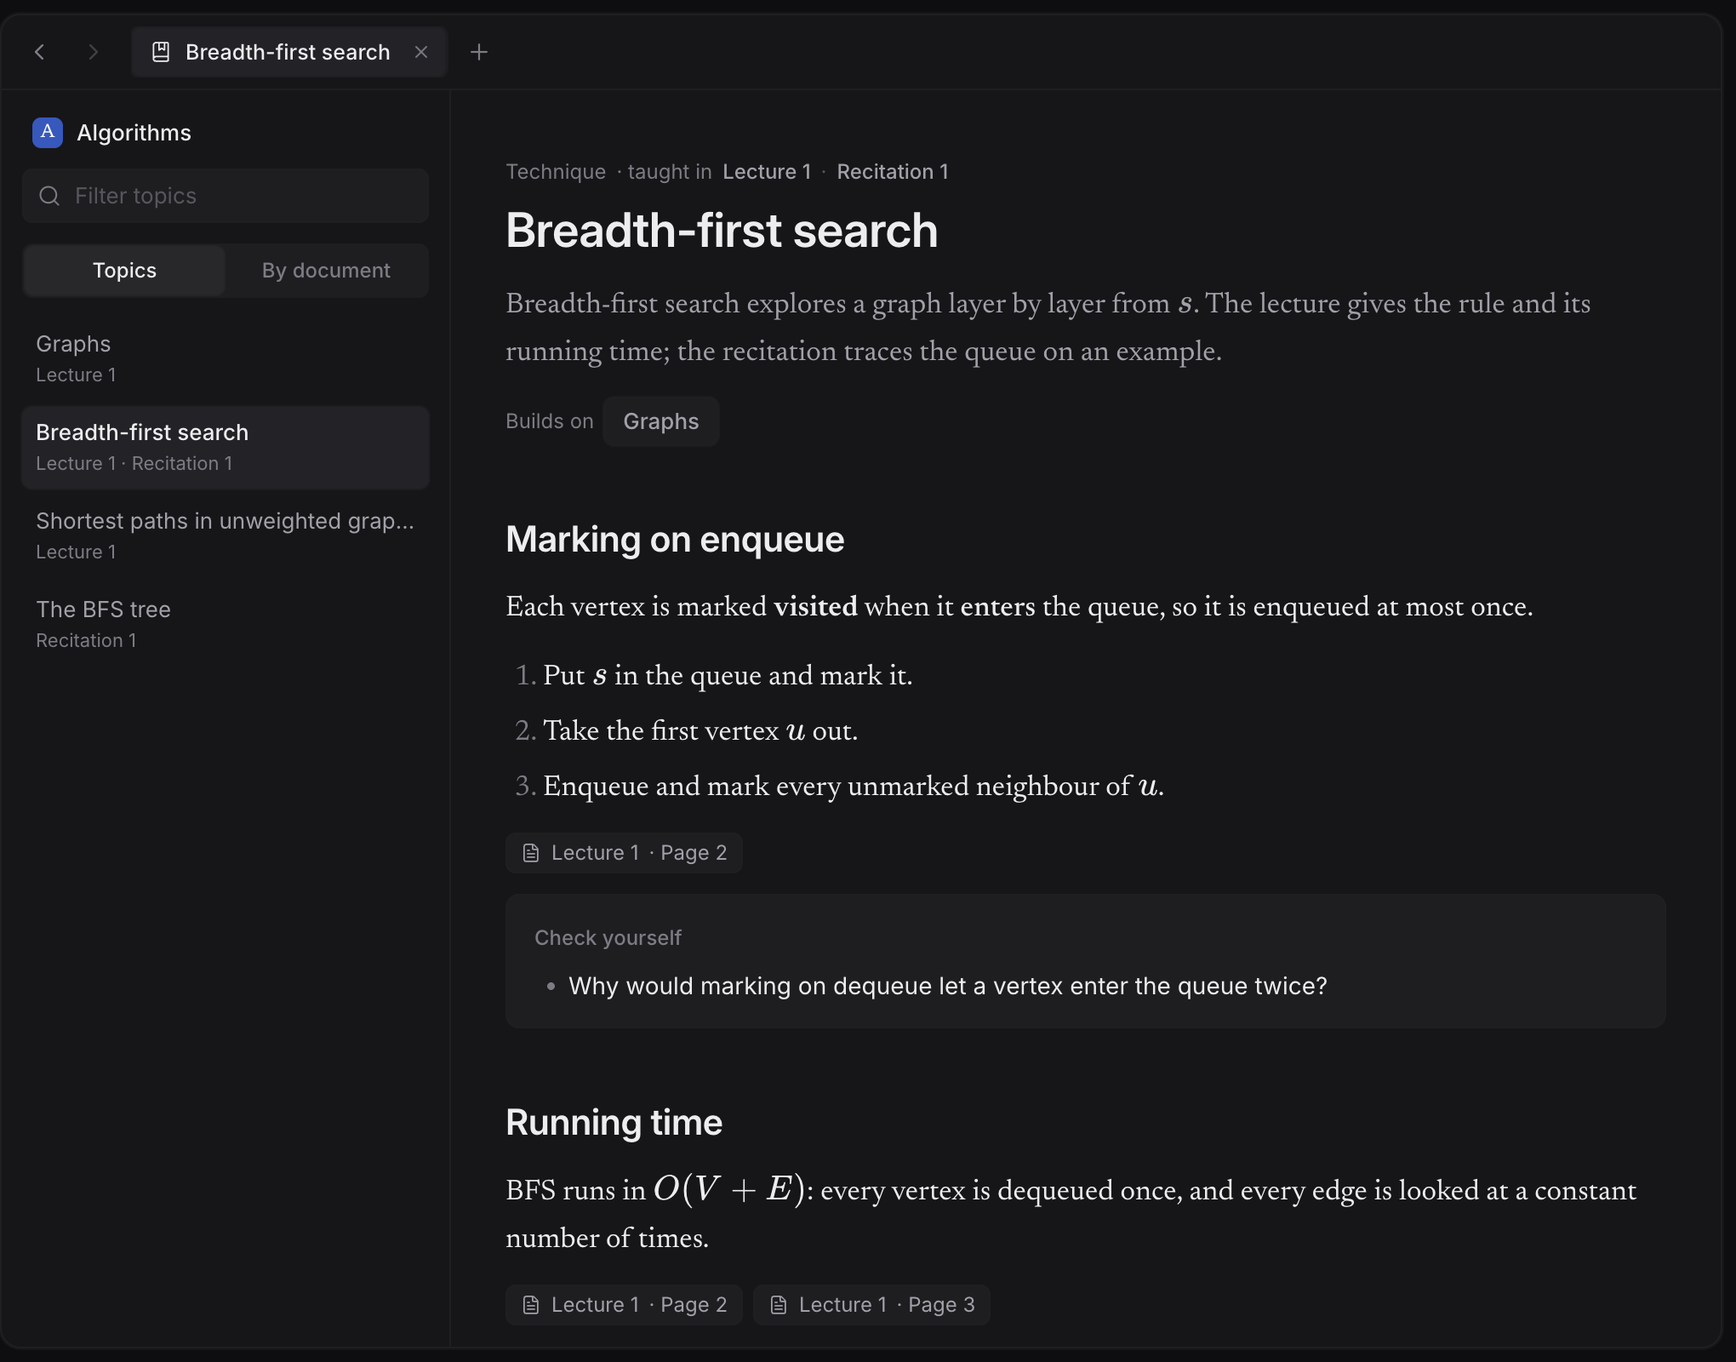
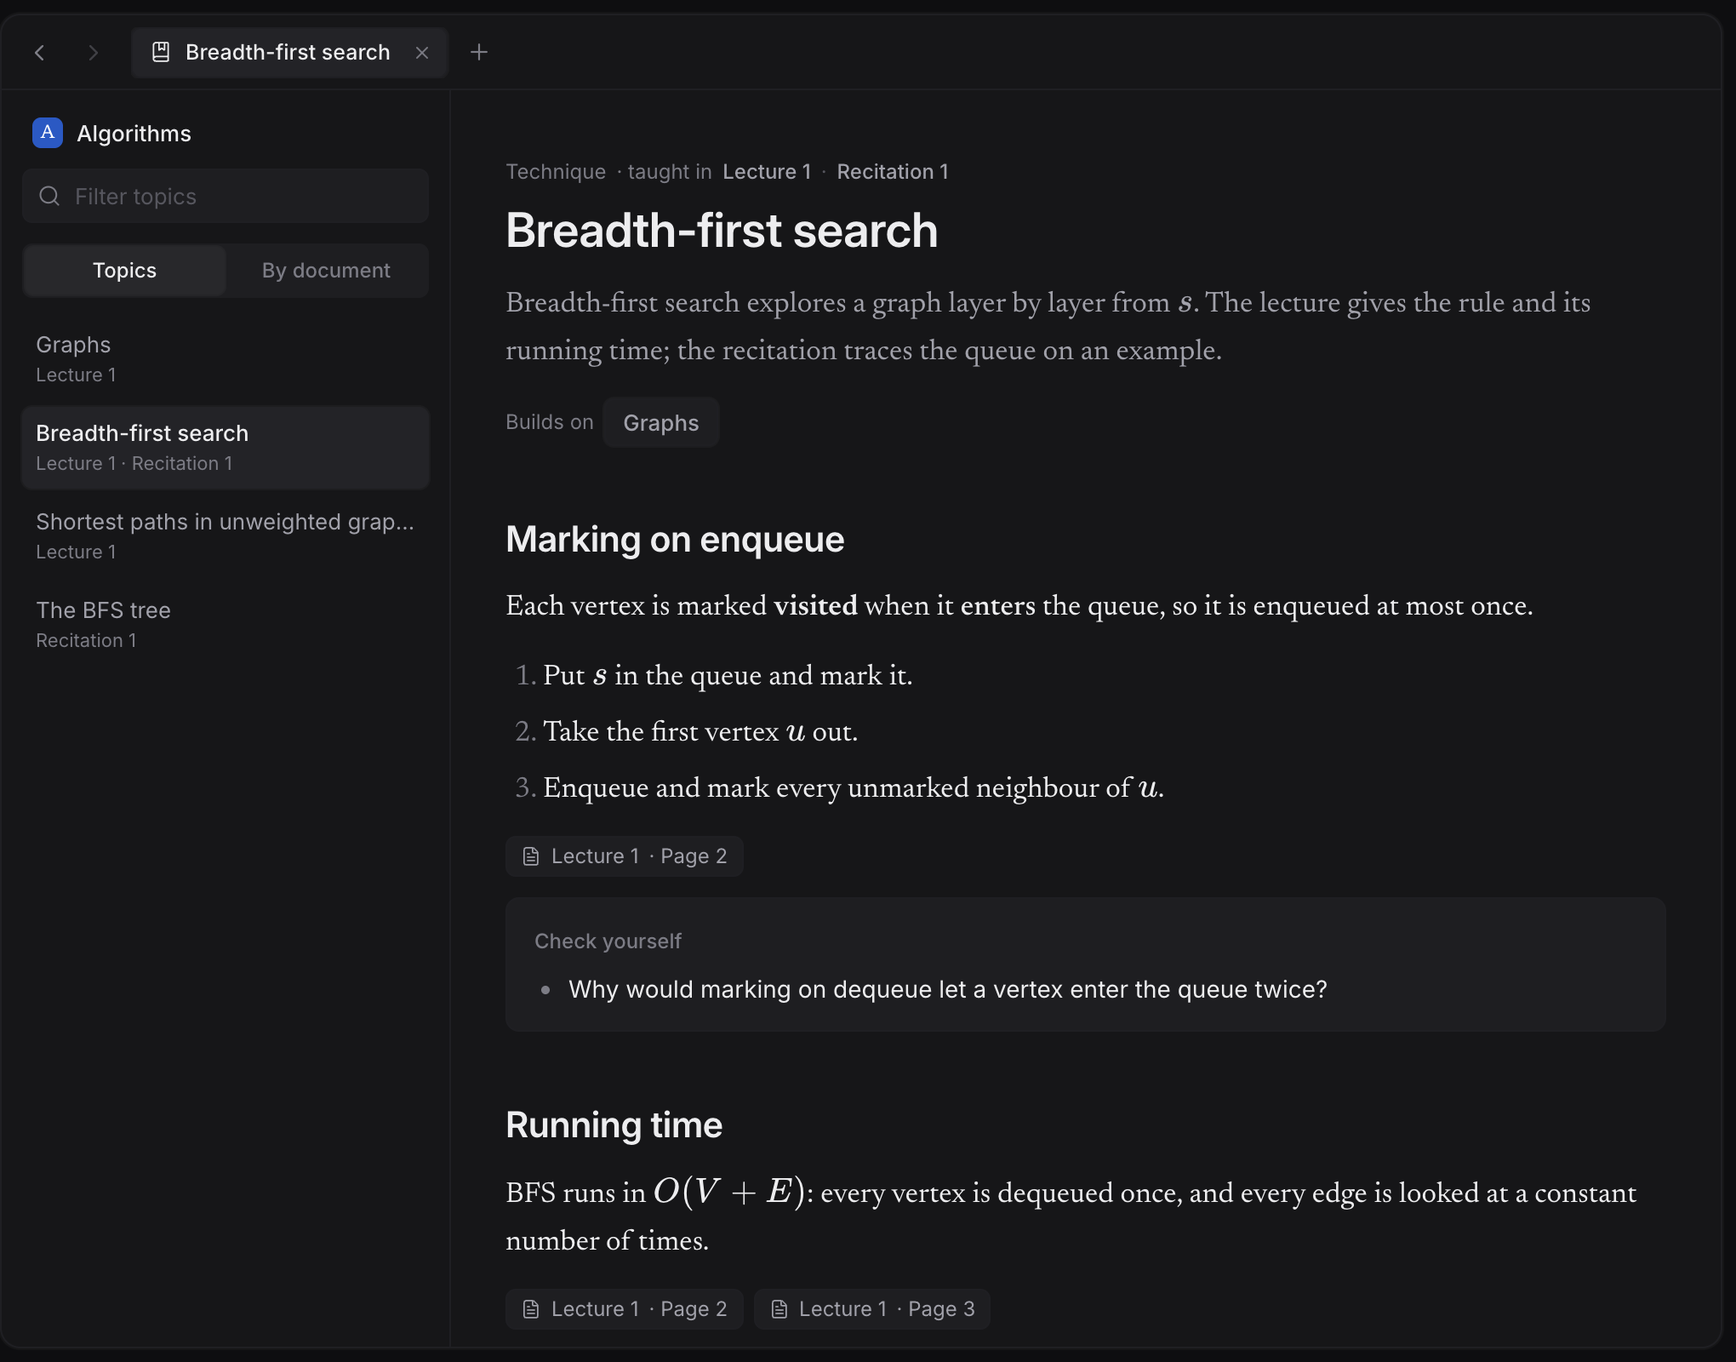
Retake the README pictures on pull requests that change the app (#25)
* Retake the README pictures on pull requests that change the app

`vp run screenshots` takes the pictures into a temporary folder and replaces a
still only when it looks different: more than 50 pixels off by more than 8 in
a colour channel, since Chromium draws the same page a few values apart from
one version to the next. The clip, recorded in real time and never the same
twice, is retaken only when a picture changed, when it is missing, or when
named. The preview window hides its scrollbars, which macOS draws by its own
settings and whether a mouse is connected.

CI's new "macOS: README pictures" job runs it on pull requests from this
repository that change the app, commits the pictures that changed to the
branch, and starts CI on that commit, since a push with the workflow's token
starts no workflow and main requires the CI check.

* Retake the README pictures

docs/images/add-context-dark.png
docs/images/add-context-light.png
docs/images/board-dark.png
docs/images/board-light.png
docs/images/notebook-dark.png
docs/images/notebook-light.png
docs/images/study-notes-dark.png
docs/images/study-notes-light.png
docs/images/tutor-dark.webp
docs/images/tutor-light.webp

* Force twice the scale when taking the README pictures

The page was asked for twice its size, but a screen that isn't Retina draws it
at its own: GitHub's Mac took the pictures at 1020 by 800. Chromium's
force-device-scale-factor switch makes it 2040 by 1600 on any Mac. The
[…]

diff --git a/scripts/screenshots.ts b/scripts/screenshots.ts
@@ -1,18 +1,28 @@
 // Pictures of Folio for the README, from the browser preview's synthetic courses: `vp run
 // screenshots` serves the interface with `vp dev`, opens it in a hidden Electron window, sets up
-// each scene, and writes docs/images/<scene>-light.png and <scene>-dark.png at twice their size,
-// then the clip of the tutor answering, docs/images/tutor-light.webp and tutor-dark.webp.
-// The clock is fixed, so relative dates and the greeting come out the same on every run. Nothing
-// opens on screen and nothing talks to a model. `vp run screenshots board clip` takes only
-// those.
+// each scene and takes docs/images/<scene>-light.png and <scene>-dark.png at twice their size. A
+// picture is replaced only when it looks different, so retaking them changes nothing until the
+// interface does. The clip of the tutor answering, docs/images/tutor-light.webp and
+// tutor-dark.webp, is recorded in real time and never comes out the same twice, so it is retaken
+// only when a picture changed, when it is missing, or when named. The clock is fixed, so relative
+// dates and the greeting come out the same on every run. Nothing opens on screen and nothing
+// talks to a model. `vp run screenshots board clip` takes only those.
+//
+// On a pull request that changes the app, CI runs this and commits the pictures that changed:
+// CI's pictures are the ones the README keeps. Another Mac draws text a little differently, so
+// elsewhere the pictures that changed go to a temporary folder, to look at; `--write` puts them
+// in docs/images all the same.
 import { execFileSync, spawn } from "node:child_process";
-import { mkdtemp, writeFile } from "node:fs/promises";
+import { existsSync } from "node:fs";
+import { copyFile, mkdtemp, writeFile } from "node:fs/promises";
 import { createRequire } from "node:module";
 import { tmpdir } from "node:os";
 import { resolve } from "node:path";
 import { _electron, type Page } from "playwright-core";
+import { looksDifferent } from "./picture-difference.ts";
 
 const ROOT = resolve(import.meta.dirname, "..");
+const IMAGES = resolve(ROOT, "docs/images");
 const PORT = 5199;
 const URL = `http://127.0.0.1:${PORT}/`;
 const SIZE = { width: 1280, height: 800 };
@@ -125,12 +135,24 @@ async function serve(): Promise<() => void> {
   }
 }
 
-/** A hidden window on the preview, at twice its size; its page is captured, never shown. */
+type Area = { x: number; y: number; width: number; height: number };
+/** `fast` encodes quickly, for the clip's frames, which img2webp encodes again. */
+type Capture = (area?: Area | null, fast?: boolean) => Promise<Buffer>;
+
+/**
+ * A hidden window on the preview, drawn at twice its size; its page is captured, never shown.
+ * Nothing comes from the Mac that takes the pictures. The page is drawn at twice its size by
+ * Chromium's emulation and captured by Chromium itself, since Playwright's screenshot of an
+ * Electron window takes the screen's own scale (once on a Mac without Retina, as GitHub's are).
+ * The scrollbars are hidden, since macOS draws them or not by its own setting and whether a
+ * mouse is connected.
+ */
 async function window() {
   const main = resolve(await mkdtemp(resolve(tmpdir(), "folio-screenshots-")), "main.cjs");
   await writeFile(
     main,
     `const { app, BrowserWindow } = require("electron");
+app.commandLine.appendSwitch("hide-scrollbars");
 app.whenReady().then(() => {
   const window = new BrowserWindow({ show: false, ...${JSON.stringify(SIZE)},
     webPreferences: { backgroundThrottling: false } });
@@ -147,7 +169,21 @@ app.whenReady().then(() => {
     mobile: false,
   });
   await page.clock.setFixedTime(NOW);
-  return { page, close: () => app.close() };
+  /** The page, or an area of it, as a PNG at twice its size; anything else is refused. */
+  const capture: Capture = async (area, fast = false) => {
+    const { data } = await cdp.send("Page.captureScreenshot", {
+      format: "png",
+      optimizeForSpeed: fast,
+      ...(area && { clip: { ...area, scale: 1 } }),
+    });
+    const png = Buffer.from(data, "base64");
+    const width = png.readUInt32BE(16);
+    const expected = Math.round((area?.width ?? SIZE.width) * 2);
+    if (width !== expected)
+      throw new Error(`A picture came out ${width} pixels wide instead of ${expected}.`);
+    return png;
+  };
+  return { page, capture, close: () => app.close() };
 }
 
 /** Opens the preview fresh, in a theme, on Home. */
@@ -161,14 +197,21 @@ async function home(page: Page, theme: "light" | "dark"): Promise<void> {
   }, theme);
   await page.reload();
   await page.getByPlaceholder("Ask about any of your courses").waitFor();
+  // A focused box's caret blinks, so no two pictures of it would be alike.
+  await page.addStyleTag({ content: "* { caret-color: transparent !important; }" });
 }
 
 /**
- * docs/images/tutor-<theme>.webp: the automaton slide with a new chat beside it, the question
+ * tutor-<theme>.webp, into `folder`: the automaton slide with a new chat beside it, the question
  * typed and sent, and the answer arriving, as an animated WebP that loops. Frames are taken as
  * fast as they come and each keeps its own duration; img2webp (from libwebp) joins them.
  */
-async function clip(page: Page, theme: "light" | "dark"): Promise<void> {
+async function clip(
+  page: Page,
+  capture: Capture,
+  theme: "light" | "dark",
+  folder: string,
+): Promise<void> {
   await home(page, theme);
   await sidebar(page, "Computational Models").click();
   await page.getByText("Lecture 1 Finite automata", { exact: true }).click();
@@ -184,7 +227,7 @@ async function clip(page: Page, theme: "light" | "dark"): Promise<void> {
   const frames: { png: Buffer; at: number }[] = [];
   let recording = true;
   const record = (async () => {
-    while (recording) frames.push({ png: await page.screenshot({ clip: area }), at: Date.now() });
+    while (recording) frames.push({ png: await capture(area, true), at: Date.now() });
   })();
   await page.waitForTimeout(600);
   await box.click();
@@ -209,15 +252,28 @@ async function clip(page: Page, theme: "light" | "dark"): Promise<void> {
     const duration = index + 1 < frames.length ? frames[index + 1]!.at - frame.at : 3000;
     args.push("-d", String(Math.max(20, duration)), path);
   }
-  const out = resolve(ROOT, `docs/images/tutor-${theme}.webp`);
+  const out = resolve(folder, `tutor-${theme}.webp`);
   execFileSync("img2webp", [...args, "-o", out], { stdio: "ignore" });
-  console.log(`docs/images/tutor-${theme}.webp (${frames.length} frames)`);
+  console.log(`${shown(out)} (${frames.length} frames)`);
 }
 
-const only = process.argv.slice(2);
+const args = process.argv.slice(2);
+const write = process.env.CI === "true" || args.includes("--write");
+const only = args.filter((arg) => arg !== "--write");
+const names = [...SCENES.map((scene) => scene.name), "clip"];
+const unknown = only.filter((name) => !names.includes(name));
+if (unknown.length) {
+  console.error(`No picture is called ${unknown.join(", ")}. There are ${names.join(", ")}.`);
+  process.exit(1);
+}
+/** Where the pictures that changed go: docs/images on CI or with --write, otherwise a folder. */
+const folder = write ? IMAGES : await mkdtemp(resolve(tmpdir(), "folio-readme-pictures-"));
+const shown = (path: string) => path.replace(`${ROOT}/`, "");
+const taken = await mkdtemp(resolve(tmpdir(), "folio-pictures-"));
+const changed: string[] = [];
 const stop = await serve();
 try {
-  const { page, close } = await window();
+  const { page, capture, close } = await window();
   try {
     for (const scene of SCENES.filter((scene) => !only.length || only.includes(scene.name)))
       for (const colors of ["light", "dark"] as const) {
@@ -225,17 +281,29 @@ try {
         await scene.show(page);
         await stillness(page);
         const area = scene.main ? await page.locator("main").boundingBox() : null;
-        await page.screenshot({
-          path: resolve(ROOT, `docs/images/${scene.name}-${colors}.png`),
-          ...(area && { clip: area }),
-        });
-        console.log(`docs/images/${scene.name}-${colors}.png`);
+        const name = `${scene.name}-${colors}.png`;
+        await writeFile(resolve(taken, name), await capture(area));
+        const different = await looksDifferent(resolve(IMAGES, name), resolve(taken, name));
+        if (different) {
+          await copyFile(resolve(taken, name), resolve(folder, name));
+          changed.push(name);
+        }
+        console.log(different ? shown(resolve(folder, name)) : `docs/images/${name} (unchanged)`);
       }
-    if (!only.length || only.includes("clip"))
-      for (const colors of ["light", "dark"] as const) await clip(page, colors);
+    const clipMissing = ["light", "dark"].some(
+      (colors) => !existsSync(resolve(IMAGES, `tutor-${colors}.webp`)),
+    );
+    if (only.includes("clip") || (!only.length && (changed.length > 0 || clipMissing)))
+      for (const colors of ["light", "dark"] as const) await clip(page, capture, colors, folder);
+    else if (!only.length) console.log("docs/images/tutor-*.webp (unchanged: no picture changed)");
   } finally {
     await close();
   }
 } finally {
   stop();
 }
+if (!write && (changed.length || only.includes("clip")))
+  console.log(
+    "\nThese are for looking at. On a pull request, CI commits the pictures that changed; " +
+      "--write puts them in docs/images.",
+  );

diff --git a/tests/picture-difference.test.ts b/tests/picture-difference.test.ts
@@ -1,0 +1,82 @@
+import { mkdtemp, rm, writeFile } from "node:fs/promises";
+import { tmpdir } from "node:os";
+import { resolve } from "node:path";
+import { createCanvas } from "@napi-rs/canvas";
+import { afterEach, describe, expect, it } from "vite-plus/test";
+import {
+  differs,
+  looksDifferent,
+  NOISE,
+  type Pixels,
+  SPECKS,
+} from "../scripts/picture-difference.ts";
+
+/** A synthetic picture of one grey, opaque. */
+function picture(width = 40, height = 30, grey = 120): Pixels {
+  const data = new Uint8ClampedArray(width * height * 4);
+  for (let index = 0; index < data.length; index += 4) data.set([grey, grey, grey, 255], index);
+  return { width, height, data };
+}
+
+/** The same picture with `count` pixels moved by `by` in one channel. */
+function speckled(base: Pixels, count: number, by = NOISE + 1, channel = 0): Pixels {
+  const data = base.data.slice();
+  for (let pixel = 0; pixel < count; pixel++) data[pixel * 4 + channel]! += by;
+  return { ...base, data };
+}
+
+describe("whether a retaken README picture looks different", () => {
+  it("keeps a picture drawn the same, or a few values apart anywhere", () => {
+    const kept = picture();
+    expect(differs(kept, picture())).toBe(false);
+    expect(differs(kept, picture(40, 30, 120 + NOISE))).toBe(false);
+    expect(differs(kept, picture(40, 30, 120 - NOISE))).toBe(false);
+  });
+
+  it("allows a few specks, and no more", () => {
+    const kept = picture();
+    expect(differs(kept, speckled(kept, SPECKS))).toBe(false);
+    expect(differs(kept, speckled(kept, SPECKS + 1))).toBe(true);
+    // A pixel counts once, however many of its channels moved.
+    const twice = speckled(speckled(kept, SPECKS, NOISE + 1, 0), SPECKS, NOISE + 1, 2);
+    expect(differs(kept, twice)).toBe(false);
+    // Alpha is not a colour: the pictures are opaque.
+    expect(differs(kept, speckled(kept, SPECKS * 10, -100, 3))).toBe(false);
+  });
+
+  it("replaces a picture of another size", () => {
+    expect(differs(picture(40, 30), picture(80, 60))).toBe(true);
+    expect(differs(picture(40, 30), picture(40, 31))).toBe(true);
+  });
+});
+
+describe("comparing picture files", () => {
+  let folder = "";
+  afterEach(async () => {
+    if (folder) await rm(folder, { recursive: true, force: true });
+  });
+
+  async function png(name: string, draw: (context: CanvasRenderingContext2D) => void) {
+    const canvas = createCanvas(64, 48);
+    const context = canvas.getContext("2d") as unknown as CanvasRenderingContext2D;
+    context.fillStyle = "#f4f4f2";
+    context.fillRect(0, 0, 64, 48);
+    draw(context);
+    const path = resolve(folder, name);
+    await writeFile(path, canvas.toBuffer("image/png"));
+    return path;
+  }
+
+  it("takes a picture with none kept, and tells the same from a change", async () => {
+    folder = await mkdtemp(resolve(tmpdir(), "folio-picture-difference-"));
+    const plain = await png("plain.png", () => {});
+    const again = await png("again.png", () => {});
+    const boxed = await png("boxed.png", (context) => {
+      context.fillStyle = "#1f2328";
+      context.fillRect(10, 10, 20, 12);
+    });
+    expect(await looksDifferent(resolve(folder, "missing.png"), plain)).toBe(true);
+    expect(await looksDifferent(plain, again)).toBe(false);
+    expect(await looksDifferent(plain, boxed)).toBe(true);
+  });
+});

diff --git a/scripts/picture-difference.ts b/scripts/picture-difference.ts
@@ -1,0 +1,48 @@
+// Whether a retaken README picture shows something the kept one doesn't. `vp run screenshots`
+// replaces a picture only then; the rule lives here, apart from the script, so it can be tested.
+import { existsSync } from "node:fs";
+import { readFile } from "node:fs/promises";
+import { createCanvas, loadImage } from "@napi-rs/canvas";
+
+/**
+ * Chromium draws the same page a few values apart from one version to the next. A retaken
+ * picture counts as the same while at most SPECKS of its pixels differ by more than NOISE in a
+ * colour channel; a change anyone could see moves far more pixels, far further.
+ */
+export const NOISE = 8;
+export const SPECKS = 50;
+
+/** A picture's pixels, four values (red, green, blue, alpha) each, as a canvas gives them. */
+export interface Pixels {
+  width: number;
+  height: number;
+  data: Uint8ClampedArray;
+}
+
+/** Whether `after` looks different from `before`. The pictures are opaque, so alpha is skipped. */
+export function differs(before: Pixels, after: Pixels): boolean {
+  if (before.width !== after.width || before.height !== after.height) return true;
+  let specks = 0;
+  for (let index = 0; index < before.data.length; index += 4)
+    for (let channel = index; channel < index + 3; channel++)
+      if (Math.abs(before.data[channel]! - after.data[channel]!) > NOISE) {
+        if (++specks > SPECKS) return true;
+        break;
+      }
+  return false;
+}
+
+async function pixels(file: string): Promise<Pixels> {
+  const image = await loadImage(await readFile(file));
+  const canvas = createCanvas(image.width, image.height);
+  const context = canvas.getContext("2d");
+  context.drawImage(image, 0, 0);
+  return context.getImageData(0, 0, image.width, image.height);
+}
+
+/** Whether the picture just taken looks different from the one kept, or there is none kept. */
+export async function looksDifferent(kept: string, taken: string): Promise<boolean> {
+  if (!existsSync(kept)) return true;
+  const [before, after] = await Promise.all([pixels(kept), pixels(taken)]);
+  return differs(before, after);
+}

diff --git a/docs/architecture.md b/docs/architecture.md
@@ -573,6 +573,28 @@ commit. The download link never changes, and there are no versioned releases to 
 real-window job reports on its own and does not hold the nightly back: those checks were written
 on a Mac much faster than GitHub's virtual ones.
 
+On a pull request from this repository that changes the app, CI also retakes the README's
+pictures on macOS (`vp run screenshots`). A still picture is replaced only when it looks
+different (more than 50 pixels off by more than 8 in a colour channel, since Chromium draws the
+same page a few values apart from one version to the next), and the clip, which is recorded in
+real time, only when a picture changed. The pictures that changed are committed to the pull
+request's branch, so they are reviewed with the change. A push with the workflow's own token
+starts no workflow, so the job then starts CI on that commit itself (`workflow_dispatch`):
+`main` requires the CI check on a pull request's latest commit. GitHub also holds a
+`pull_request` run of that commit for approval; it runs nothing and can be left alone.
+
+Nothing in the pictures comes from the Mac that takes them. The page is drawn at twice its size
+by Chromium's emulation and captured by Chromium (`Page.captureScreenshot`), since Playwright's
+screenshot of an Electron window takes the screen's own scale, once on GitHub's Macs, which have
+no Retina screen; a picture of another size is refused. The scrollbars are hidden, since macOS
+draws them by its own settings, and so is the caret, which blinks. GitHub's Mac draws text a
+little differently from a newer macOS, so the pictures CI commits are the ones the README keeps:
+elsewhere, `vp run screenshots` puts the pictures that changed in a temporary folder, and only
+`--write` puts them in `docs/images`. The rule for "looks different" is in
+`scripts/picture-difference.ts`, with its tests. The CI check waits for the pictures job but
+not on its result, so a picture that doesn't come out holds no change back; if its commit went
+through but starting CI on it failed, the pull request waits for a CI check, which shows.
+
 A quit signal (SIGTERM, as the installer sends) quits Folio as ⌘Q does: chats settle first.
 
 Without a Developer ID Folio cannot update itself, so it says when a newer release is out

diff --git a/AGENTS.md b/AGENTS.md
@@ -61,6 +61,9 @@ development Folio is open.
   ran. Reading a test is not running it.
 - Interface changes are checked in the browser preview (`vp dev`) and, when they cross the
   Electron bridge, in a real Folio window: the preview skips that hop.
+- On a pull request that changes the app, CI retakes the README's pictures and commits those that
+  look different to its branch, so pull before pushing again. CI's pictures are the ones the
+  README keeps: `vp run screenshots` elsewhere writes to a temporary folder, for looking at.
 - Test the hard cases: cancellation, restart and resume, duplicate delivery, edit conflicts and
   scope boundaries.
 - Keep deterministic tests, real-provider checks and learning outcomes apart; one does not

diff --git a/README.md b/README.md
@@ -228,7 +228,7 @@ vp run desktop:package # Folio.app and its disk image, in release/
 vp run desktop:install # the same, then Folio.app into /Applications
 vp build && vp pack # renderer, CLI and Electron bundles
 vp dev              # the interface alone, in a browser, with synthetic data
-vp run screenshots  # the README's pictures and clip, light and dark, from that preview
+vp run screenshots  # the README's pictures that changed, from that preview, into a temporary folder
 ```
 
 The benchmark spends your ChatGPT plan, so it runs only with `FOLIO_BENCH=1` and never in `vp
